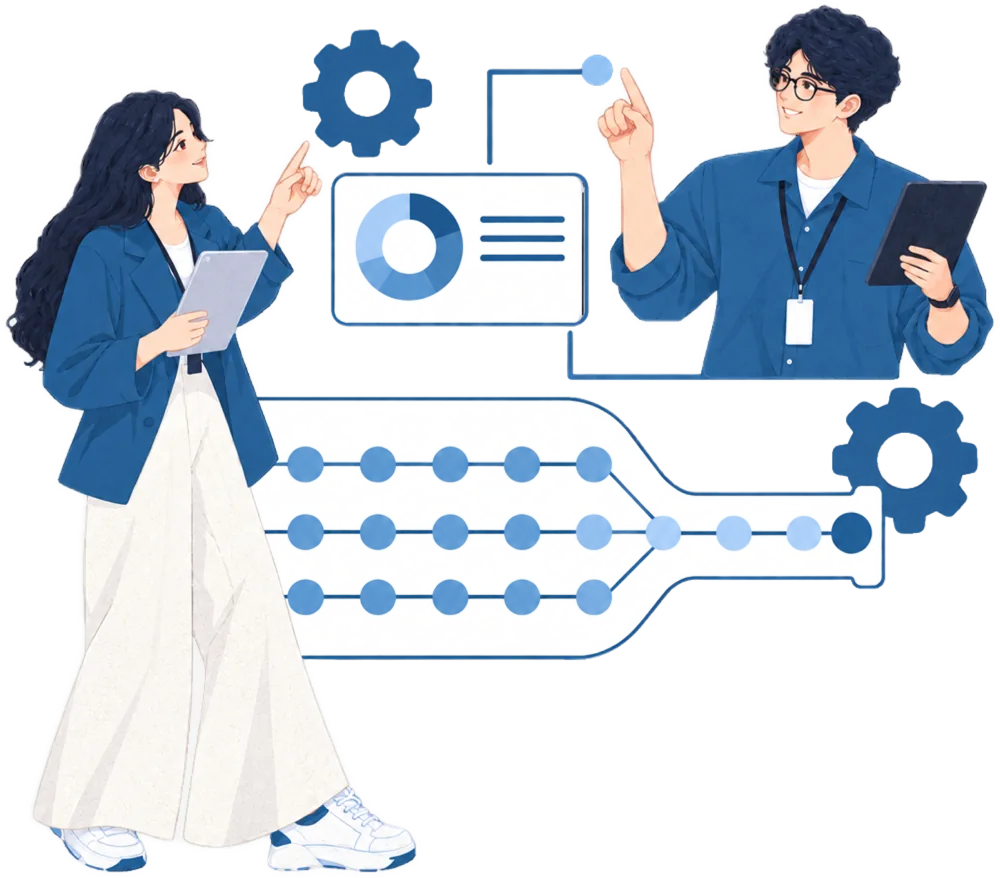
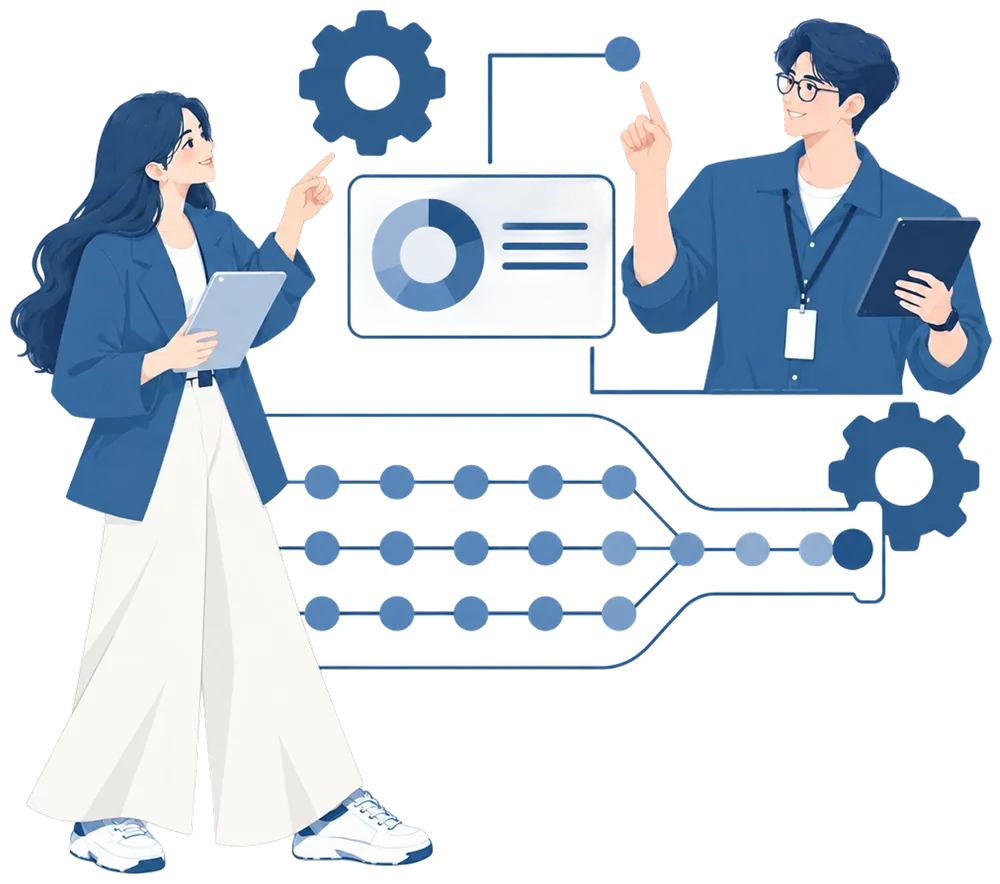
Nhà Kiến Tạo: đổi minh họa Câu hỏi mang về theo Figma (285:3456)

diff --git a/js/content.js b/js/content.js
@@ -146,7 +146,7 @@ window.TEXT = {
     mentorTitle: 'Tìm mentor thế nào',
     stepTitle: 'Một bước nên đi tới',
     questionTitle: 'Câu hỏi mang về',
-    questionArt: { DH: 'assets/question-DH.webp?v=6', KT: 'assets/question-KT.webp?v=6', TP: 'assets/question-TP.webp?v=6', GN: 'assets/question-GN.webp?v=6', GM: 'assets/question-GM.webp?v=6', TL: 'assets/question-TL.webp?v=6' },   // minh họa cho khối "Câu hỏi mang về" (Figma 281:3439 … 281:3453)
+    questionArt: { DH: 'assets/question-DH.webp?v=6', KT: 'assets/question-KT.webp?v=7', TP: 'assets/question-TP.webp?v=6', GN: 'assets/question-GN.webp?v=6', GM: 'assets/question-GM.webp?v=6', TL: 'assets/question-TL.webp?v=6' },   // minh họa cho khối "Câu hỏi mang về" (Figma 281:3439 … 281:3453)
     teammateTitle: 'Đồng đội ăn ý',
     tcp: { eyebrow: 'Mảnh ghép chiến lược', title: 'Dành riêng cho bạn', cta: 'Tìm hiểu chương trình', url: 'https://talentconnectplus.edu.vn/' },
     brandCard: {
